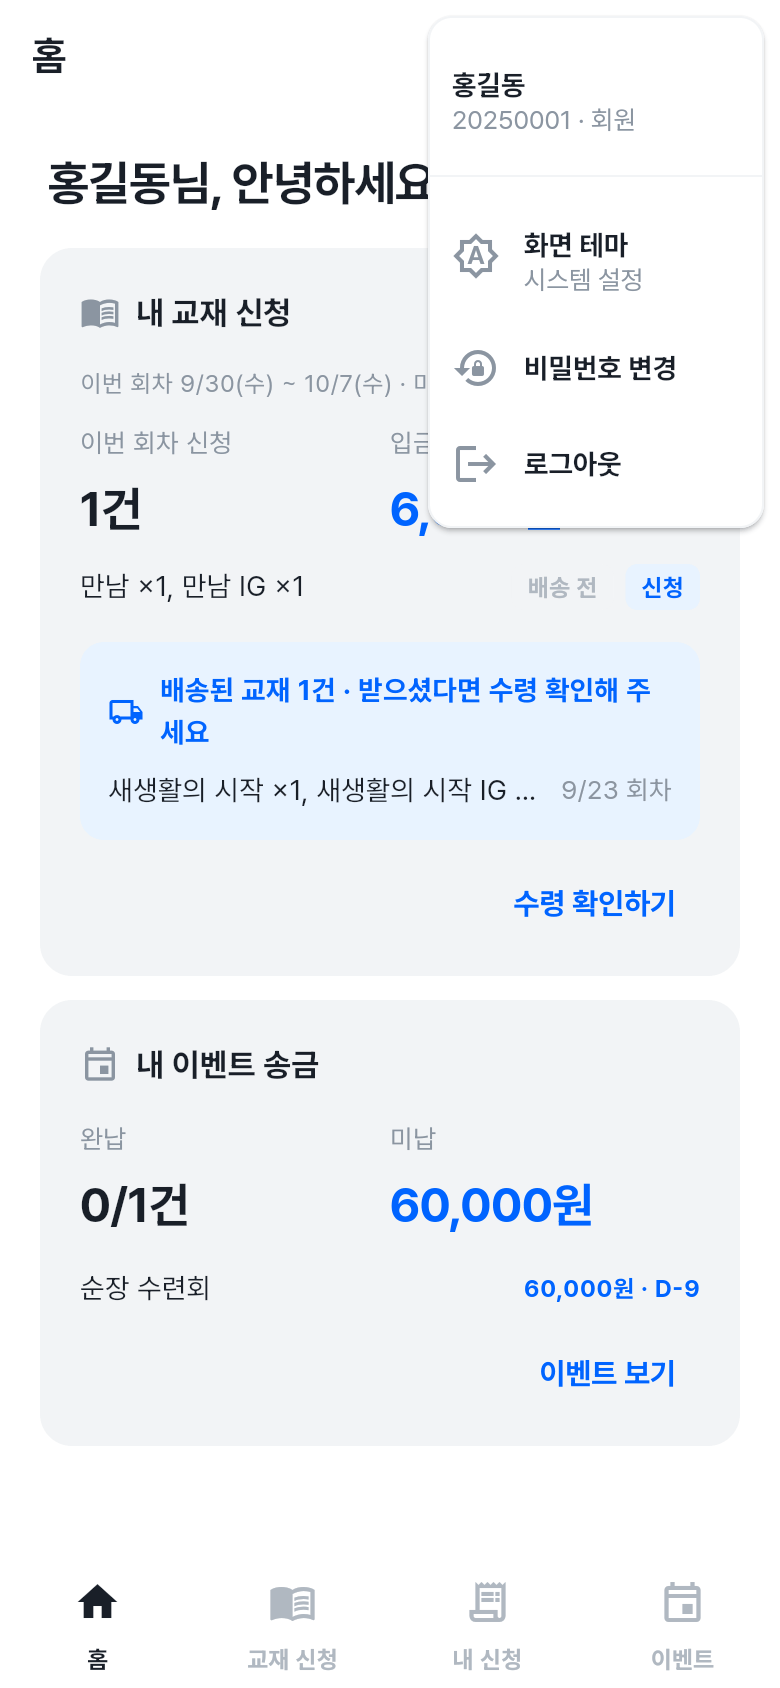
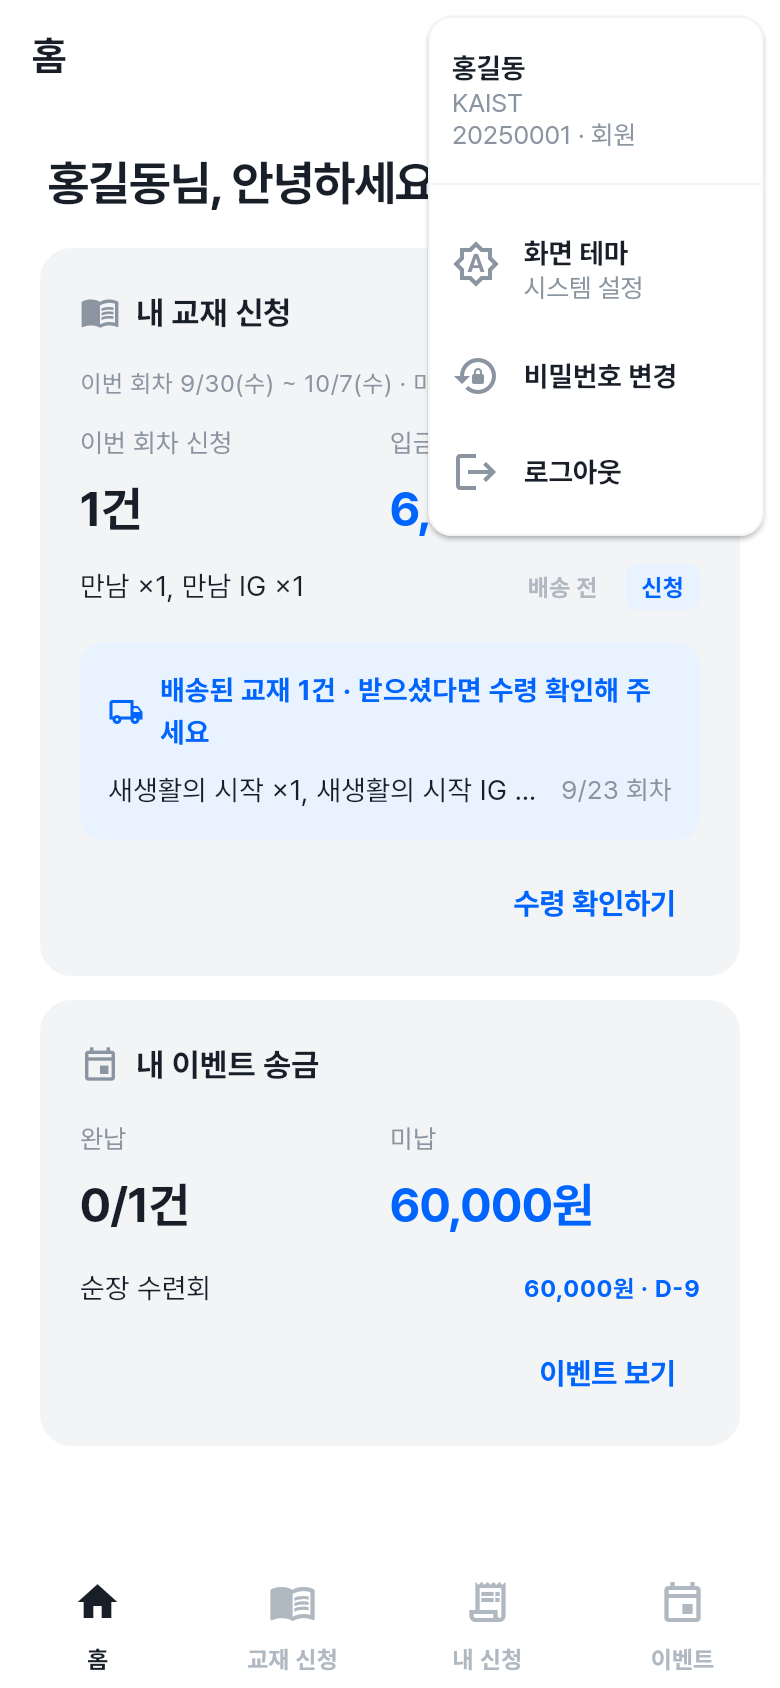
내 정보 메뉴에 소속 캠퍼스 표시
- 이름 아래에 본인 캠퍼스(총괄 관리자도 관리 중인 캠퍼스가 아닌 소속 캠퍼스)를 보여 준다
- 회원 사용법의 내 정보 화면 사진 / 설명 갱신

Changed region(s): [[0.5538, 0.1232, 0.9538, 0.3389], [0.5846, 0.0308, 0.8308, 0.0924], [0.6769, 0.1232, 0.8308, 0.1848]]

diff --git a/lib/features/auth/presentation/account_menu_button.dart b/lib/features/auth/presentation/account_menu_button.dart
@@ -5,15 +5,18 @@ import 'package:material_ui/material_ui.dart';
 import '../../../core/router/routes.dart';
 import '../../../core/theme/app_theme.dart';
 import '../../../core/theme/theme_mode_provider.dart';
+import '../../campus/presentation/campus_providers.dart';
 import 'auth_providers.dart';
 
-/// 앱바의 "내 정보" 메뉴: 학번/이름 표시, 화면 테마, 비밀번호 변경, 로그아웃.
+/// 앱바의 "내 정보" 메뉴: 이름/캠퍼스/학번 표시, 화면 테마, 비밀번호 변경, 로그아웃.
 class AccountMenuButton extends ConsumerWidget {
   const AccountMenuButton({super.key});
 
   @override
   Widget build(BuildContext context, WidgetRef ref) {
     final profile = ref.watch(currentProfileProvider).value;
+    // 총괄 관리자가 관리 중인 캠퍼스가 아니라 본인 소속 캠퍼스
+    final campus = ref.watch(myCampusProvider).value;
     final themeMode = ref.watch(themeModeProvider);
 
     return PopupMenuButton<String>(
@@ -43,7 +46,10 @@ class AccountMenuButton extends ConsumerWidget {
                 ),
               ),
               subtitle: Text(
-                '${profile.studentId} · ${profile.role.label}',
+                [
+                  if (campus != null) campus.name,
+                  '${profile.studentId} · ${profile.role.label}',
+                ].join('\n'),
                 style: TextStyle(
                   fontSize: 13,
                   color: context.colors.textSecondary,

diff --git a/lib/features/campus/presentation/campus_providers.dart b/lib/features/campus/presentation/campus_providers.dart
@@ -36,6 +36,16 @@ final myCampusIdProvider = FutureProvider<String?>((ref) async {
   return profile?.campusId;
 });
 
+/// 본인 캠퍼스 (없으면 null). 내 정보 메뉴 표시용.
+final myCampusProvider = FutureProvider.autoDispose<Campus?>((ref) async {
+  final id = await ref.watch(myCampusIdProvider.future);
+  final list = await ref.watch(campusesProvider.future);
+  for (final c in list) {
+    if (c.id == id) return c;
+  }
+  return null;
+});
+
 /// 관리자 화면에서 다루는 캠퍼스 id. 로그아웃 상태면 null.
 ///
 /// 캠퍼스 관리자는 본인 캠퍼스(서버 RLS 도 그것만 허용한다).

diff --git a/docs/사용법-회원.md b/docs/사용법-회원.md
@@ -150,7 +150,7 @@
 
 오른쪽 위 **내 정보** 버튼에서
 
-- 학번 · 이름 확인
+- 이름 · 소속 캠퍼스 · 학번 확인
 - **화면 테마**: 시스템 설정 / 라이트 / 다크
 - **비밀번호 변경**: 현재 비밀번호 확인 후 새 비밀번호(8자 이상, 영문+숫자)로 변경
 - **로그아웃**
